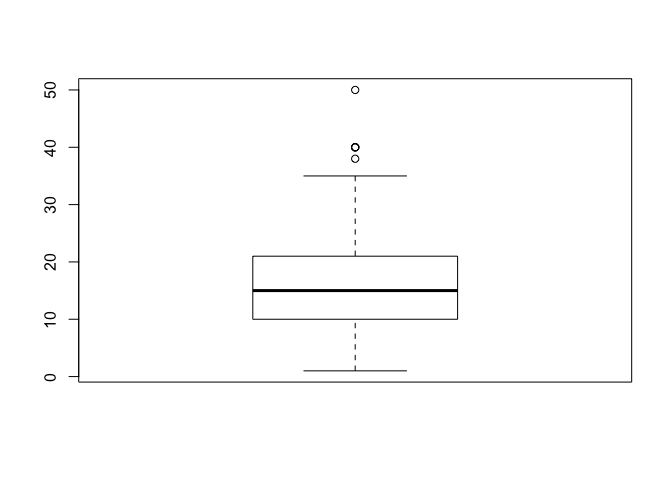
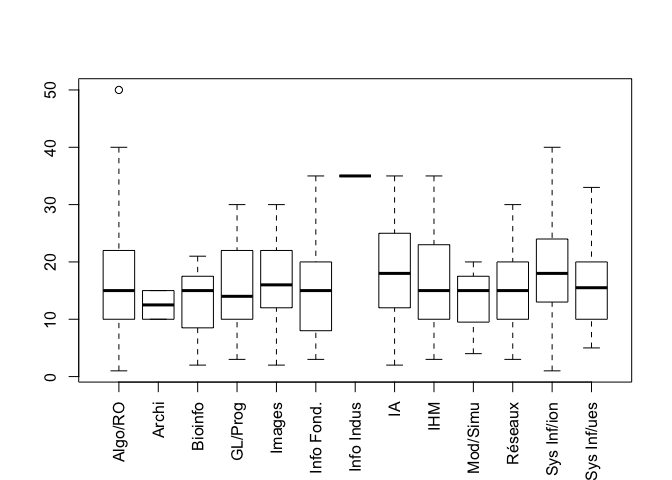
Fix for #2, with additional boxplot from associations

diff --git a/analyse/globale.md b/analyse/globale.md
@@ -75,7 +75,11 @@ Une autre information importante est l'expérience du chercheur dans ce domaine.
 
 ![](figure-gfm/experience-1.png)
 
-Avec une expérience médiane de 15 années, la moitié des réponses qui indiquent entre 10 et 20 années d'expérience, les participants sont plutôt des chercheurs confirmés. On ne note pas de différence thématique significative, si ce n'est que l'expérience médiane parmi les réponses venant d'informatique théorique (GDR IM) est de 13 années alors que l'expérience médiane des réponses provenant des adhérents de la SIF est de 20 années.
+Avec une expérience médiane de 15 années, la moitié des réponses qui indiquent entre 10 et 21 années d'expérience, les participants sont plutôt des chercheurs confirmés. On ne note pas de différence significative selon la thématique.
+
+![](figure-gfm/experience-2.png)
+
+Au niveau de l'origine des réponse, on note que l'expérience médiane parmi les réponses venant d'informatique théorique (GDR IM) est de 13 années alors que l'expérience médiane des réponses provenant des adhérents de la SIF est de 20 années.
 
 
 ## Associations
